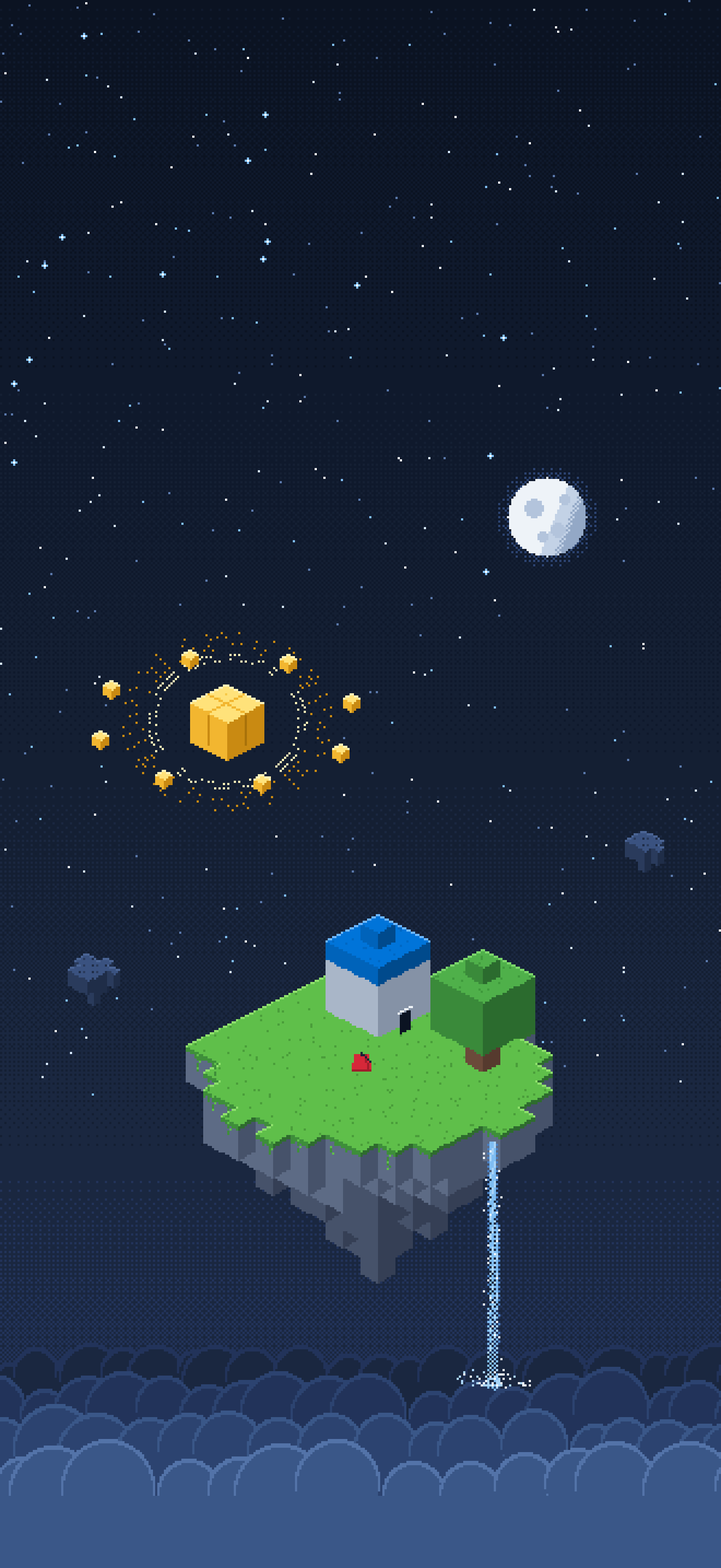
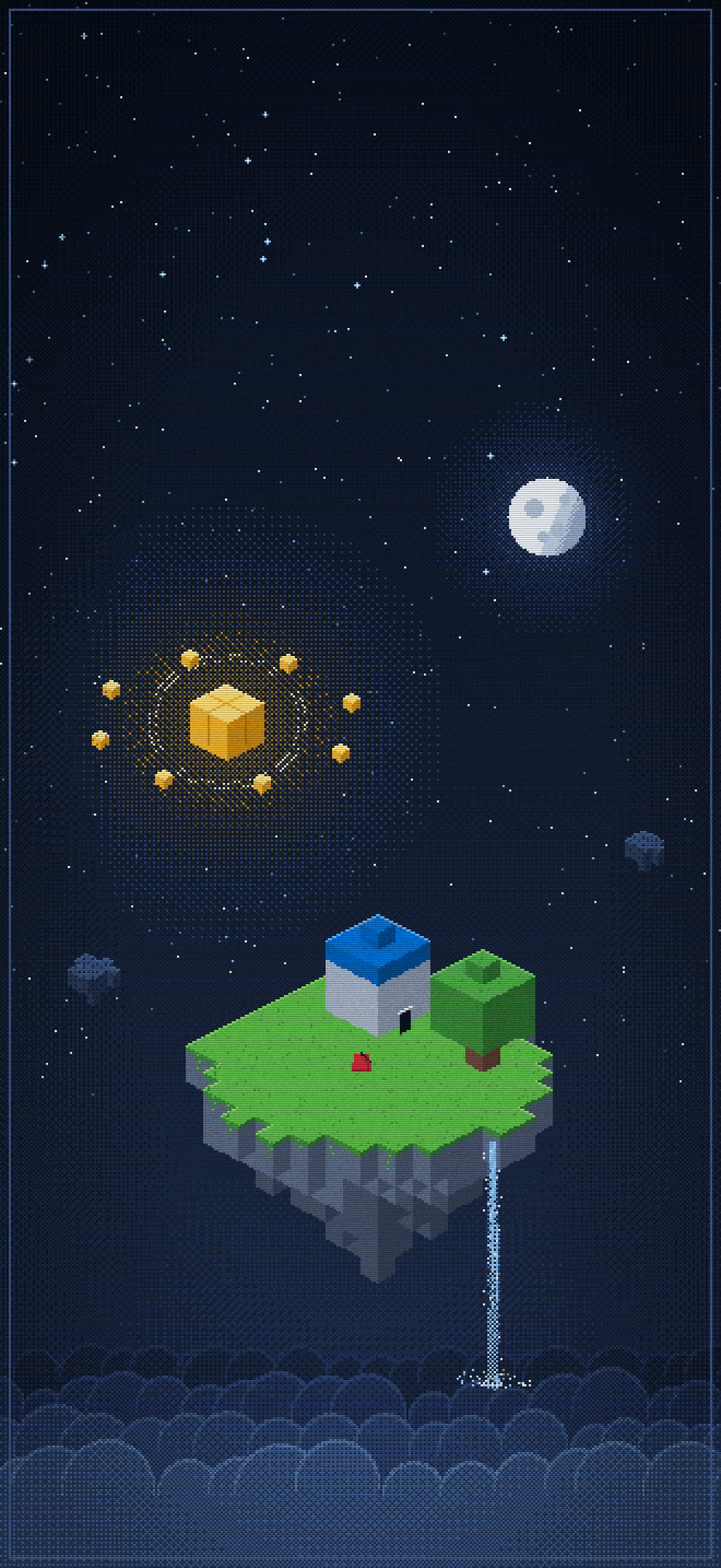
Wallpapers: FEZ gets the Hermes/Nous treatment (dithered halos, scanlines, film grain, vignette, thin frame)
Claude-Session: https://claude.ai/code/session_01GRUokM32JgeWkBY35PaRht

diff --git a/tools/wallpapers.py b/tools/wallpapers.py
@@ -186,6 +186,41 @@ def cloud_sea(d, w, h, rng, y0):
         d.rectangle([0, base + 2, w, h], fill=hexc(body))
 
 
+def glow(d, img, cx, cy, r, rings):
+    """A dithered halo on the dark sky only, so it reads as light without a smooth gradient."""
+    px = img.load()
+    for y in range(max(0, cy - r), min(img.height, cy + r)):
+        for x in range(max(0, cx - r), min(img.width, cx + r)):
+            q = math.hypot(x - cx, y - cy) / r
+            if q >= 1 or sum(px[x, y]) > 140: continue
+            for edge, col, dens in rings:
+                if q < edge and BAYER[y % 4][x % 4] < 16 * dens * (1 - q / edge): d.point((x, y), hexc(col)); break
+
+
+def vignette(img, frame):
+    """Darken the corners in dithered steps and draw a thin frame, the Hermes/Nous way."""
+    px = img.load(); w, h = img.size
+    for y in range(h):
+        for x in range(w):
+            e = max(0, (math.hypot((x - w / 2) / (w / 2), (y - h / 2) / (h / 2)) - .7) / .55)
+            if e and BAYER[y % 4][x % 4] < 16 * min(1, e) * .8:
+                r, g, b = px[x, y]; px[x, y] = (r * 3 // 5, g * 3 // 5, b * 3 // 5)
+    ImageDraw.Draw(img).rectangle([frame, frame, w - 1 - frame, h - 1 - frame], outline=hexc("#3a5788"))
+
+
+def scanlines(img, period, dark=.8):
+    W, H = img.size
+    col = Image.new("L", (1, H)); col.putdata([int(255 * dark) if y % period >= period * 5 // 8 else 255 for y in range(H)])
+    m = col.resize((W, H), Image.NEAREST)
+    return ImageChops.multiply(img, Image.merge("RGB", (m, m, m)))
+
+
+def grain(img, block=2, amount=.16):
+    W, H = img.size
+    n = Image.effect_noise((W // block, H // block), 48).resize((W, H), Image.NEAREST)
+    return Image.blend(img, ImageChops.overlay(img, Image.merge("RGB", (n, n, n))), amount)
+
+
 def fez(kind):
     W, H = SIZES[kind]; scale = 8 if kind == "desktop" else 4; w, h = W // scale, H // scale
     img = Image.new("RGB", (w, h)); d = ImageDraw.Draw(img); rng = random.Random(32)
@@ -194,6 +229,8 @@ def fez(kind):
         mo, main, gold, sea, far = (96, 64, 22), (420, 196), (250, 104), 300, [((118, 212), 3.0, 8), ((560, 120), 2.4, 8), ((612, 250), 2.0, 6)]
     else:
         mo, main, gold, sea, far = (250, 236, 18), (165, 530), (104, 330), 630, [((40, 450), 2.2, 6), ((292, 392), 2.0, 6)]
+    glow(d, img, mo[0], mo[1], mo[2] * 3, [(.5, "#3a5788", .8), (1, "#22335a", .9)])
+    glow(d, img, *gold, 100, [(.42, "#9a7418", .5), (.7, "#5a4a1e", .45), (1, "#2c4370", .5)])
     stars(d, w, h, rng, w * h // 520, [(mo[0], mo[1], mo[2] + 10), (gold[0], gold[1], 50)])
     moon(d, *mo)
     for (fx, fy), fr, fs in far:
@@ -206,7 +243,8 @@ def fez(kind):
     door(d, ox, oy, top, s)
     hx, hy = at(ox, oy, 0, 1, top, s); fez_hat(d, hx + 4, hy - 4)
     gold_cube(d, *gold, 34, .5, rng)
-    return img.resize((W, H), Image.NEAREST)
+    vignette(img, 6 if kind == "desktop" else 4)
+    return grain(scanlines(img.resize((W, H), Image.NEAREST), scale))
 
 
 # ---------- Surf: the brand tile, Neptune's Horses and one glyph per game ----------
